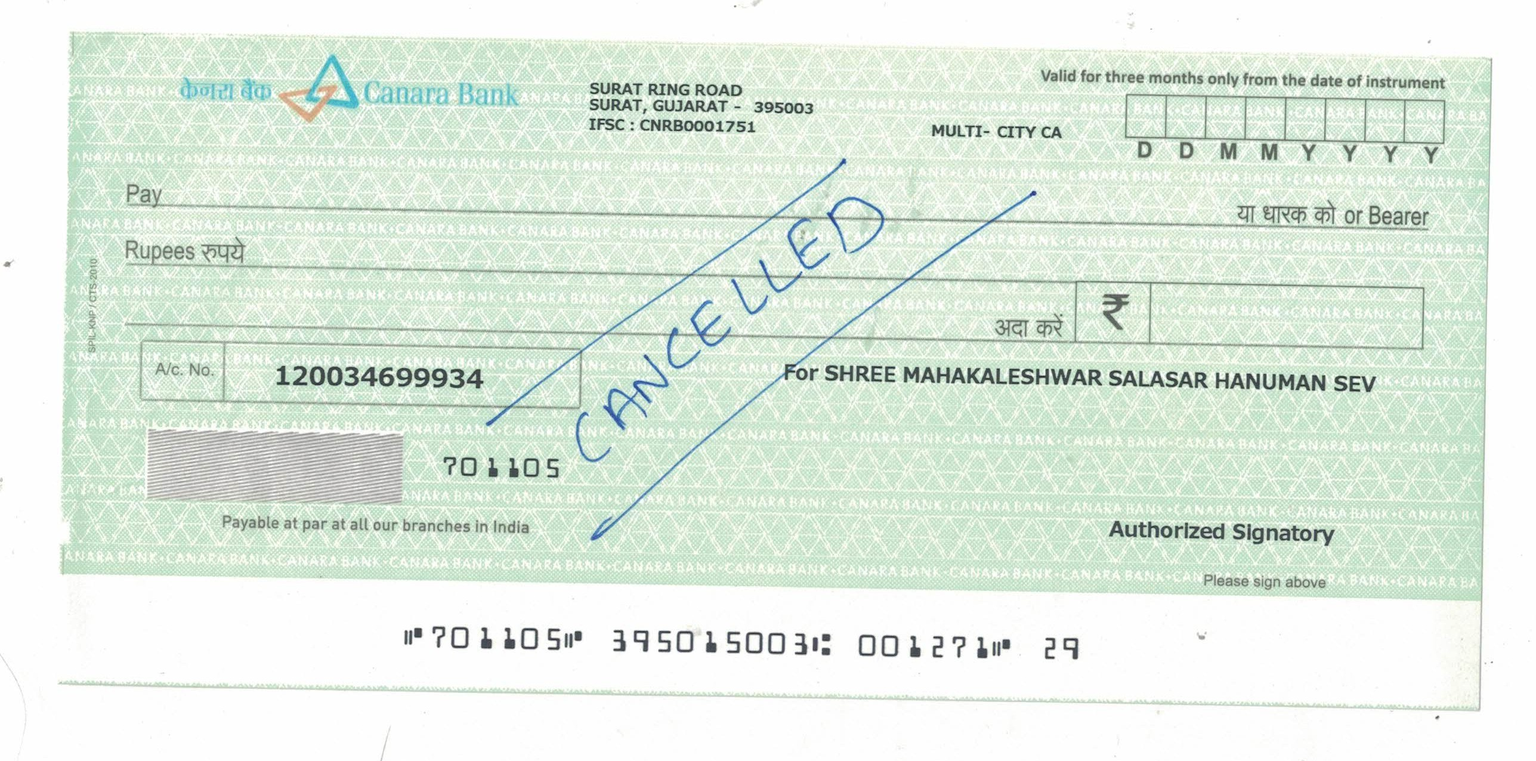
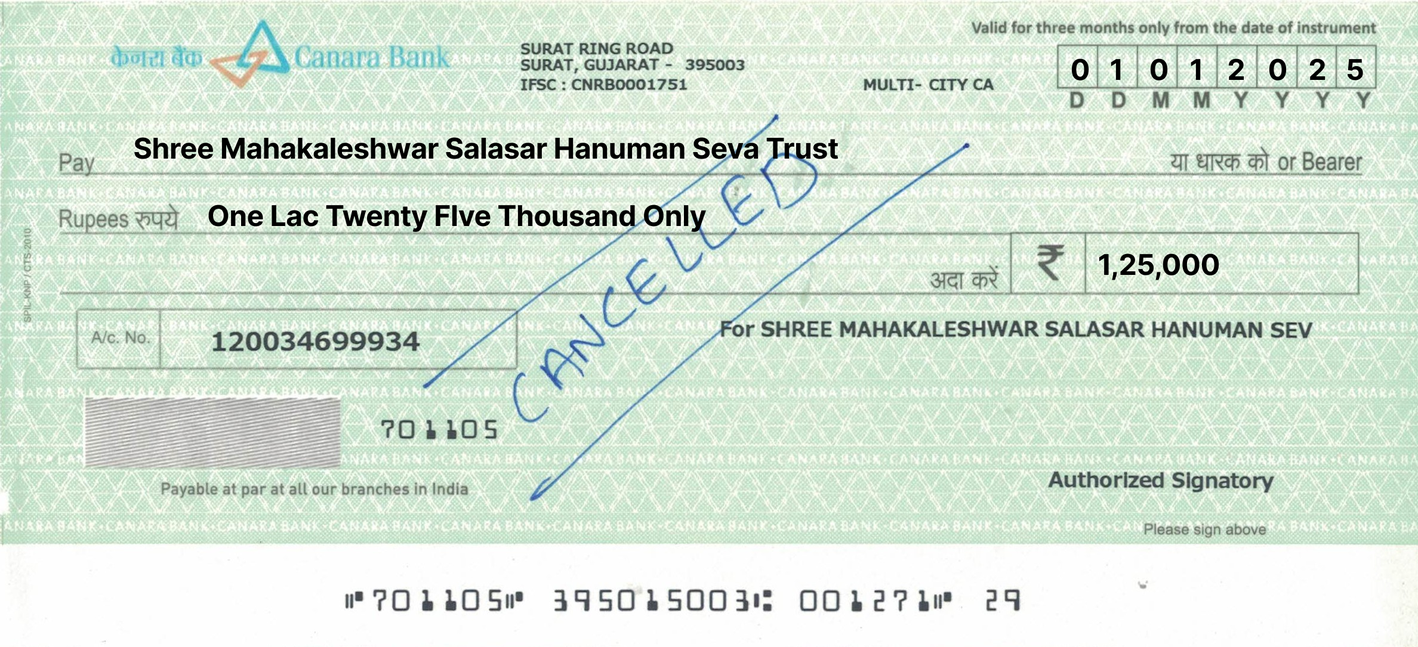
fixed points : 1. Need data in daan api in description field from the website content in this sheet. 2. In home page, testimonial section, the images are not loading properly. (today) 3. Update the check image. (today)

diff --git a/src/components/home/DaanSection.tsx b/src/components/home/DaanSection.tsx
@@ -188,22 +188,24 @@ const DonationSection = () => {
                 <div
                   key={category.id}
                   className={
-                    "group relative overflow-hidden rounded-xl transition-all duration-300 hover:transform hover:scale-105 hover:shadow-2xl  bg-[#AD2F16] hover:bg-white *:hover:bg-white hover:shadow-x"
+                    "group relative overflow-hidden rounded-xl transition-all duration-300 hover:transform hover:scale-105 hover:shadow-2xl bg-[#AD2F16] hover:bg-white *:hover:bg-white hover:shadow-x flex flex-col"
                   }>
                   {/* Card Content */}
-                  <div className="p-6 text-center">
+                  <div className="p-6 text-center flex flex-col flex-grow">
                     {/* Icon */}
-                    <div
-                      className={`inline-flex items-center justify-center w-14 h-14 rounded-lg mb-4 transition-all duration-300 border-orange-300 border bg-red-800 text-white group-hover:bg-red-800 group-hover:text-white text-white"   
-                    }`}>
+                    <div className="flex justify-center mb-4">
+                      <div
+                        className={`inline-flex items-center justify-center w-14 h-14 rounded-lg transition-all duration-300 border-orange-300 border bg-red-800 text-white group-hover:bg-red-800 group-hover:text-white text-white"   
+                      }`}>
 
-                      <img src={imageForCard} alt={category.title || 'donation'} className="w-8 h-8 object-contain mx-auto" />
+                        <img src={imageForCard} alt={category.title || 'donation'} className="w-8 h-8 object-contain" />
 
+                      </div>
                     </div>
 
                     {/* Title */}
                     <h3
-                      className={`textHeading  mb-2 transition-colors duration-300 text-white group-hover:text-red-800 hover:text-red-800 font-bold`}>
+                      className={`textHeading mb-2 transition-colors duration-300 text-white group-hover:text-red-800 hover:text-red-800 font-bold`}>
                       {category.title}
                     </h3>
 
@@ -221,7 +223,7 @@ const DonationSection = () => {
 
                     {/* Description */}
                     <p
-                      className={`textDescription leading-relaxed mb-6 transition-colors duration-300 text-white/90 group-hover:text-gray-600 
+                      className={`textDescription leading-relaxed mb-6 transition-colors duration-300 text-white/90 group-hover:text-gray-600 flex-grow
                       `}>
                       {category.description}
                     </p>
@@ -229,7 +231,7 @@ const DonationSection = () => {
                     {/* Donate Button */}
                     <button
                       onClick={() => handleDonate(category)}
-                      className={`w-full py-2.5 px-4 rounded font-semibold textDescription transition-all duration-300  "bg-red-800 text-white bg-red-900 group-hover:bg-red-800 hover:text-white hover:shadow-lg   
+                      className={`w-full py-2.5 px-4 rounded font-semibold textDescription transition-all duration-300 bg-red-800 text-white bg-red-900 group-hover:bg-red-800 hover:text-white hover:shadow-lg mt-auto
                       `}>
                       {t('donations.button')}
                     </button>

diff --git a/src/components/commonDonationDialog/GaudaanLayout.tsx b/src/components/commonDonationDialog/GaudaanLayout.tsx
@@ -83,7 +83,7 @@ const GaudaanLayout: React.FC<GaudaanLayoutProps> = ({ title = "Bhojan daan", on
   // Helper flags for which UI to show
   const isBhumi = title === "Bhumi Daan" || data?.title === "Bhumi Daan";
   const isBhojan = title === "Bhojan Daan" || data?.title === "Bhojan Daan";
-  const isAnnadan = title === "Annadan" || title === "Anndaan" || data?.title === "Annadan" || data?.title === "Anndaan";
+  const isAnnadan = title === "Anna Daan" || title === "Anna Daan" || data?.title === "Anna Daan" || data?.title === "Annadaan";
   const isRashiDaan = (title || data?.title || '').toLowerCase().includes('rashi');
 
   // When showing Bhumi Daan we fetch the plots from the server (API: /plots)

diff --git a/src/components/commonDonationDialog/components/Utils.tsx b/src/components/commonDonationDialog/components/Utils.tsx
@@ -27,14 +27,15 @@ export const getDaanImages = (title: string): string[] => {
     case 'gaudaan':
     case 'gau daan':
       return [gaudaan1, gaudaan2];
-    case 'anndaan':
-    case 'ann daan':
+    case 'annadaan':
+    case 'anna daan':
+      return [anndan1, anndan2];
     case 'bhojan daan':
     case 'bhojandaan':
       return [bhojandaan1, bhojanddan2];
     case 'raashidaan':
     case 'raashi daan':
-      return [anndan1, anndan2]; // Using anndan as fallback for raashi
+      // Using anndan as fallback for raashi
     default:
       return [bhoomiddan1, bhoomiddan2]; // Default to bhoomiddan images
   }

diff --git a/src/components/home/DonationSection.tsx b/src/components/home/DonationSection.tsx
@@ -267,7 +267,7 @@ export default function DonationSection() {
 
                     <div className="flex flex-col md:flex-row gap-6 w-full h-auto md:h-66">
                         <div className={`transition-opacity duration-300 ${isTransitioning ? 'opacity-50' : 'opacity-100'}`}>
-                            <LazyLoadImage
+                            <img
                                 src={currentTestimonial.image}
                                 alt={`Profile of ${currentTestimonial.name}`}
                                 className="w-full md:w-64 h-112 object-cover rounded-md shadow-md bg-gray-200"

diff --git a/src/components/home/LiveDarshan.tsx b/src/components/home/LiveDarshan.tsx
@@ -228,7 +228,7 @@ const LiveDarshan = (): JSX.Element => {
   }[]>([]);
 
   // fetch events from API using React Query
-  const { data: eventsData, isLoading: eventsLoading, error: eventsError } = useGetEvents();
+  const { data: eventsData, isLoading: eventsLoading, error: eventsError } = useGetEvents(selectedTemple);
 
   // map API response to the shape used by SevaSection
   useEffect(() => {

diff --git a/src/api/EventsQueries.tsx b/src/api/EventsQueries.tsx
@@ -6,8 +6,8 @@ export const QueryKeys = {
     getEvents: ["events", "getEvents"],
 };
 
-export const useGetEvents = () =>
+export const useGetEvents = (templeType?: string) =>
     useQuery({
-        queryKey: QueryKeys.getEvents,
-        queryFn: () => getEvents(),
+        queryKey: [...QueryKeys.getEvents, templeType],
+        queryFn: () => getEvents(templeType),
     });

diff --git a/src/services/events.service.ts b/src/services/events.service.ts
@@ -11,4 +11,7 @@ export interface EventItem {
   [key: string]: any;
 }
 
-export const getEvents = () => authTokenAxios.get(`/events`);
+export const getEvents = (templeType?: string) => {
+  const params = templeType ? { location: templeType } : {};
+  return authTokenAxios.get(`/events`, { params });
+};
